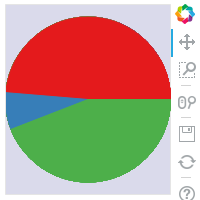
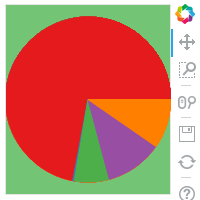
Add more data and possibility to change data type

diff --git a/frontend.py b/frontend.py
@@ -11,13 +11,6 @@ class App:
     def __init__(self, master):
         window = Frame(master)
         window.pack()
-        self.data = DataRead.read_data()
-
-        # Default data to display
-        self.column = self.data[list(self.data)[0]]
-        self.pie_chart_path = r"regions_data\pie_chart_data\\Produkcja i rozdysponowanie ciepła.xlsx"
-
-        master.title("Polish Voivodeships Visualizer")
 
         # ----------------------------------------------------
         # FRAMES
@@ -45,6 +38,17 @@ class App:
 
         rigth_bottom_frame_down = Frame(rigth_bottom_frame)
         rigth_bottom_frame_down.pack(side=BOTTOM)
+
+        # ----------------------------------------------------
+        # DEFAULT VALUES
+
+        data_type = ("Ciepłownictwo", "Gazownictwo", "Elektryczność", "Surowce")
+        self.chosen_data_type = data_type[0]
+        self.data = DataRead.read_data(self.chosen_data_type)
+        self.column = self.data[list(self.data)[0]]
+        self.pie_chart_path = r"regions_data\pie_chart_data\\Produkcja i rozdysponowanie ciepła.xlsx"
+
+        master.title("Polish Voivodeships Visualizer")
 
         # ----------------------------------------------------
         # INTERVALS LABELS AND ENTRIES
@@ -94,8 +98,8 @@ class App:
         colors = ("Green", "Blue", "Orange", "Red", "Purple", "Gray")
         self.chosen_color = StringVar(rigth_bottom_frame_up)
         self.chosen_color.set("Green")  # default value
-        w = OptionMenu(upperframe, self.chosen_color, *colors)
-        w.grid(row=0, column=6, rowspan=2)
+        colors_drop_down_list = OptionMenu(upperframe, self.chosen_color, *colors)
+        colors_drop_down_list.grid(row=0, column=6, rowspan=2)
 
         # ----------------------------------------------------
         # LABELS FOR REGIONS CURRENT DATA
@@ -106,13 +110,13 @@ class App:
         data_label = Label(dataframe, text="Current data:")
         data_label.grid(row=0, column=0)
 
-        data_for_region = {}
+        self.data_for_region = {}
         for region in range(16):
-            data_for_region["d{}".format(region)] = self.column[region]
+            self.data_for_region["d{}".format(region)] = self.column[region]
         index = 0
 
-        self.label_value_row= []
-        for k, v in data_for_region.items():
+        self.label_value_row = []
+        for k, v in self.data_for_region.items():
             k = Label(dataframe, text=v)
             k.grid(row=index + 1, column=0)
             self.label_value_row.append(k)
@@ -128,16 +132,21 @@ class App:
 
         # ----------------------------------------------------
         # MAP CREATION TOOLS
+        self.list_data_types = Listbox(rigth_bottom_frame_up, width=42, height=4, exportselection=False)
+        self.list_data_types.pack(side=TOP)
+
+        for name in data_type:
+            self.list_data_types.insert(END, name)
+
+        self.list_data_types.bind('<<ListboxSelect>>', self.get_selected_data_type)
 
         sb1 = Scrollbar(rigth_bottom_frame_up)
         sb1.pack(side=RIGHT, fill=Y)
 
-        self.list1 = Listbox(rigth_bottom_frame_up, width=40, height=20)
+        self.list1 = Listbox(rigth_bottom_frame_up, width=40, height=18)
         self.list1.pack(side=TOP)
 
-        columns_names = DataRead.read_columns()
-        for name in columns_names:
-            self.list1.insert(END, name)
+        self.columns_names = DataRead.read_columns(self.chosen_data_type)
 
         self.list1.config(yscrollcommand=sb1.set)
         sb1.config(command=self.list1.yview)
@@ -153,10 +162,10 @@ class App:
         sb2 = Scrollbar(rigth_bottom_frame_down)
         sb2.pack(side=RIGHT, fill=Y)
 
-        self.list2 = Listbox(rigth_bottom_frame_down, width=40, height=11)
+        self.list2 = Listbox(rigth_bottom_frame_down, width=40, height=9)
         self.list2.pack(side=TOP)
 
-        file_names = DataRead.give_pie_chart_files_names()
+        file_names = DataRead.give_pie_chart_files_names(self.chosen_data_type)
         for name in file_names:
             self.list2.insert(END, name)
 
@@ -167,6 +176,20 @@ class App:
 
         b2 = Button(rigth_bottom_frame_down, text="Add pie charts", width=20, command=self.add_pie_charts)
         b2.pack()
+
+    def get_selected_data_type(self, event):
+        self.list1.delete(0, END)
+        self.list2.delete(0, END)
+        index = self.list_data_types.curselection()[0]
+        selected_data_type = self.list_data_types.get(index)
+        self.chosen_data_type = selected_data_type
+        self.columns_names = DataRead.read_columns(self.chosen_data_type)
+        self.data = DataRead.read_data(self.chosen_data_type)
+        for name in self.columns_names:
+            self.list1.insert(END, name)
+        file_names = DataRead.give_pie_chart_files_names(self.chosen_data_type)
+        for name in file_names:
+            self.list2.insert(END, name)
 
     def get_selected_name(self, event):
         try:
@@ -182,7 +205,7 @@ class App:
         try:
             index = self.list2.curselection()[0]
             selected_name = self.list2.get(index)
-            path = r"regions_data\pie_chart_data\\" + selected_name
+            path = r"regions_data\\" + self.chosen_data_type + r"\\pie_chart_data\\" + selected_name
             self.pie_chart_path = path
         except IndexError:
             pass
@@ -215,19 +238,21 @@ class App:
 class DataRead:
     # READ FILE
     @staticmethod
-    def read_data():
-        data = pandas.read_excel(r"regions_data\data.xlsx")
+    def read_data(name):
+        path = r"regions_data\\" + name + r"\data.xlsx"
+        data = pandas.read_excel(path)
         return data
 
     @staticmethod
-    def read_columns():
-        data = pandas.read_excel(r"regions_data\data.xlsx")
+    def read_columns(name):
+        path = r"regions_data\\" + name + r"\data.xlsx"
+        data = pandas.read_excel(path)
         columns = list(data)
         return columns
 
     @staticmethod
-    def give_pie_chart_files_names():
-        files = [file for file in os.listdir(r"regions_data\pie_chart_data") if file.endswith(".xlsx")]
+    def give_pie_chart_files_names(name):
+        files = [file for file in os.listdir(r"regions_data\\" + name + "\pie_chart_data") if file.endswith(".xlsx")]
         return files
 
 
